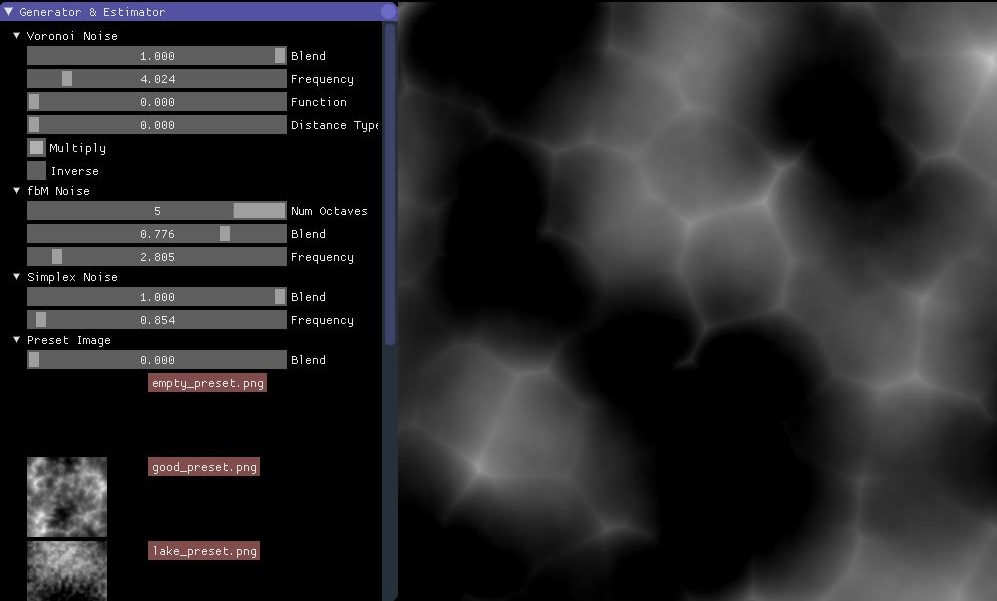
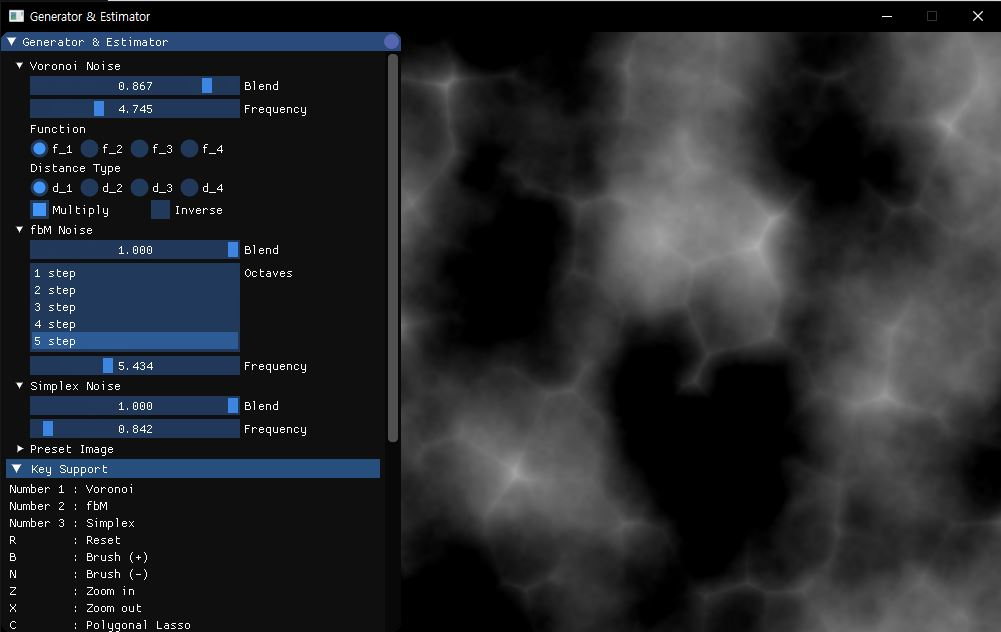
README Update

diff --git a/Generator/resources/texture/terrain/ShowBlendMap.py b/Generator/resources/texture/terrain/ShowBlendMap.py
@@ -2,34 +2,42 @@ import matplotlib.pyplot as plt
 import matplotlib.gridspec as gridspec
 import numpy as np
 from PIL import Image
+import sys
 
-full_channel_image = np.array(Image.open("./splatMap.png"))
+def main(image_path) :
+    full_channel_image = np.array(Image.open(image_path))
 
-red_channel   = full_channel_image[:,:,0]
-blue_channel  = full_channel_image[:,:,1]
-green_channel = full_channel_image[:,:,2]
-alpha_channel = full_channel_image[:,:,3]
-rgb_channel = full_channel_image[:,:,0:3]
+    red_channel   = full_channel_image[:,:,0]
+    blue_channel  = full_channel_image[:,:,1]
+    green_channel = full_channel_image[:,:,2]
+    alpha_channel = full_channel_image[:,:,3]
+    rgb_channel = full_channel_image[:,:,0:3]
 
-fig = plt.figure(figsize=(16, 8))
-outer = gridspec.GridSpec(1, 2, wspace=0.2, hspace=0.2)
+    fig = plt.figure(figsize=(16, 8))
+    outer = gridspec.GridSpec(1, 2, wspace=0.2, hspace=0.2)
 
-inner1 = gridspec.GridSpecFromSubplotSpec(2, 2,
-                    subplot_spec=outer[0], wspace=0.2, hspace=0.2)
-colors = [red_channel, blue_channel, green_channel, alpha_channel]
-titles = ["Rock", "Dirt", "Mud", "Sand"]
+    inner1 = gridspec.GridSpecFromSubplotSpec(2, 2,
+                        subplot_spec=outer[0], wspace=0.2, hspace=0.2)
+    colors = [red_channel, blue_channel, green_channel, alpha_channel]
+    titles = ["Rock", "Dirt", "Mud", "WetDirt"]
 
-for j in range(4):
-        ax = plt.Subplot(fig, inner1[j])
-        ax.imshow(colors[j])
-        ax.set_title(titles[j])
-        fig.add_subplot(ax)
-        
-inner2 = gridspec.GridSpecFromSubplotSpec(1,1,
-        subplot_spec=outer[1], wspace=0.1, hspace=0.1)
-ax = plt.Subplot(fig, inner2[0])
-ax.imshow(rgb_channel)
-ax.set_title("RGB Merged")
-fig.add_subplot(ax)
+    for j in range(4):
+            ax = plt.Subplot(fig, inner1[j])
+            ax.imshow(colors[j])
+            ax.set_title(titles[j])
+            fig.add_subplot(ax)
+            
+    inner2 = gridspec.GridSpecFromSubplotSpec(1,1,
+            subplot_spec=outer[1], wspace=0.1, hspace=0.1)
+    ax = plt.Subplot(fig, inner2[0])
+    ax.imshow(rgb_channel)
+    ax.set_title("RGB Merged")
+    fig.add_subplot(ax)
 
-plt.show()
+    plt.show()
+
+if __name__ == "__main__" : 
+        if len(sys.argv) != 2 :
+                print("Usage: ShowBlendMap.py splat_map_path")
+        else :
+                main(sys.argv[1])

diff --git a/Renderer/TerrainRenderer/EngineTerrain.cpp b/Renderer/TerrainRenderer/EngineTerrain.cpp
@@ -250,8 +250,8 @@ bool EngineTerrain::initTerrain(const glm::vec3& position, iList<std::string>&& 
 	try
 	{
 		terrainTexture = terrainDataManager->addAsset<GLTexture, std::pair<uint32_t, std::string>>({
-			std::make_pair<uint32_t, std::string>(0, OBFUSCATE("../resources/texture/terrain/height16bit2.png")),
-			std::make_pair<uint32_t, std::string>(1, OBFUSCATE("../resources/texture/terrain/splatMap.png")),
+			std::make_pair(0, OBFUSCATE("../resources/texture/terrain/height16bit2.png")),
+			std::make_pair(1, OBFUSCATE("../resources/texture/terrain/splatMap.png")),
 		});
 
 #ifdef _DEBUG

diff --git a/Renderer/TerrainRenderer/EngineAsset.cpp b/Renderer/TerrainRenderer/EngineAsset.cpp
@@ -42,14 +42,12 @@ EngineAsset & EngineAsset::operator=(const EngineAsset & other)
 bool EngineAsset::listenToAssetChange(void)
 {
 	namespace fs = std::experimental::filesystem;
-
 	for (auto& file : assetPaths)
 	{
 		if (!file.second.empty())
 		{
 			auto& lastTime = file.first;
 			const auto newLastTime = fs::last_write_time(file.second).time_since_epoch().count();
-
 			if (newLastTime != lastTime)
 			{
 				lastTime = newLastTime;
@@ -57,6 +55,5 @@ bool EngineAsset::listenToAssetChange(void)
 			}
 		}
 	}
-
 	return false;
 }

diff --git a/README.md b/README.md
@@ -5,12 +5,14 @@ PTE consists of two programs, **Renderer and Editing tool**.
 
 **Renderer** is mainly for viewing resources (height map, or equivalently, displacement map and blend map) which are generated by the Editing tool. Renderer always checks if resources have been modified, and ,if it does, reload resources in the OpenGL Current Context. This makes it easier for the users to edit resources and debug resources.
 <center><img src="./screenshot_renderer.JPG" width="640"></center>
+<center><img src="./screenshot_renderer2.JPG" width="640"></center>
 
 **Editing tool** consists of two stages, Generator and Estimator.<br/>
 At **Generator** stage, users can edit height map with several noise functions by controlling several parameters of each noise functions. Also enable to edit output board directly with additive brush / decline brush / lasso (free-form) / lasso (polygonal) / etc ..   <br/>
 At **Estimator** stage, you can generate blend map associated with height map which you are editing.
 This will be automatically done using several terrain related algorithms.
 <center><img src="./screenshot_editing_tool.JPG" width="640"></center>
+<center><img src="./screenshot_editing_tool2.JPG" width="640"></center>
 
 ## Demo Video
 
@@ -56,6 +58,7 @@ will be supported ...
 	4. Change noises' parameters and Edit noise board with several brushes as you want.
 	5. If you finished your editing, scroll down GUI and select "Export Images".
 	6. Export your height map and blend map!
+	7. Watch your resources you just created with Renderer. (It automatically loaded your resources).
 
 * Generate blend map from your own height map. (but, height map must be 16bit single channel)
 	1. Put your height map to resources/texture/preset directory.
